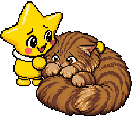
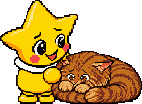
fix: 抱擁シーンのクーンを通常の体格へ縮める
抱擁スプライトを作り直し、クーンの体と丸まった尻尾を小さくする。素材は表示寸法の整数比2(142×104を71×52で表示)にし、2倍解像度化と同じ基準にする。

Claude-Session: https://claude.ai/code/session_01AHTCHi5Y25VFKmuqrrmVD5

diff --git a/src/rendering/room-presentation.ts b/src/rendering/room-presentation.ts
@@ -719,7 +719,8 @@ export function getRoomPresentation(visit: VisitView): RoomPresentation {
         hiddenDepthDecorationIds: ["maineCoon"],
         comfortingMaineCoon: {
           assetName: "etokichi-comforting-maine-coon-pixel.webp",
-          height: 73,
+          // 素材142×104を整数比2で表示する(2倍解像度化と同じ基準)
+          height: 52,
           x: 96,
           y: 326,
           depthOffset: 20,

diff --git a/tests/room-presentation.spec.ts b/tests/room-presentation.spec.ts
@@ -429,7 +429,7 @@ describe("room presentation", () => {
       thunderstorm: true,
       comfortingMaineCoon: {
         assetName: "etokichi-comforting-maine-coon-pixel.webp",
-        height: 73,
+        height: 52,
         x: 96,
         y: 326,
       },
